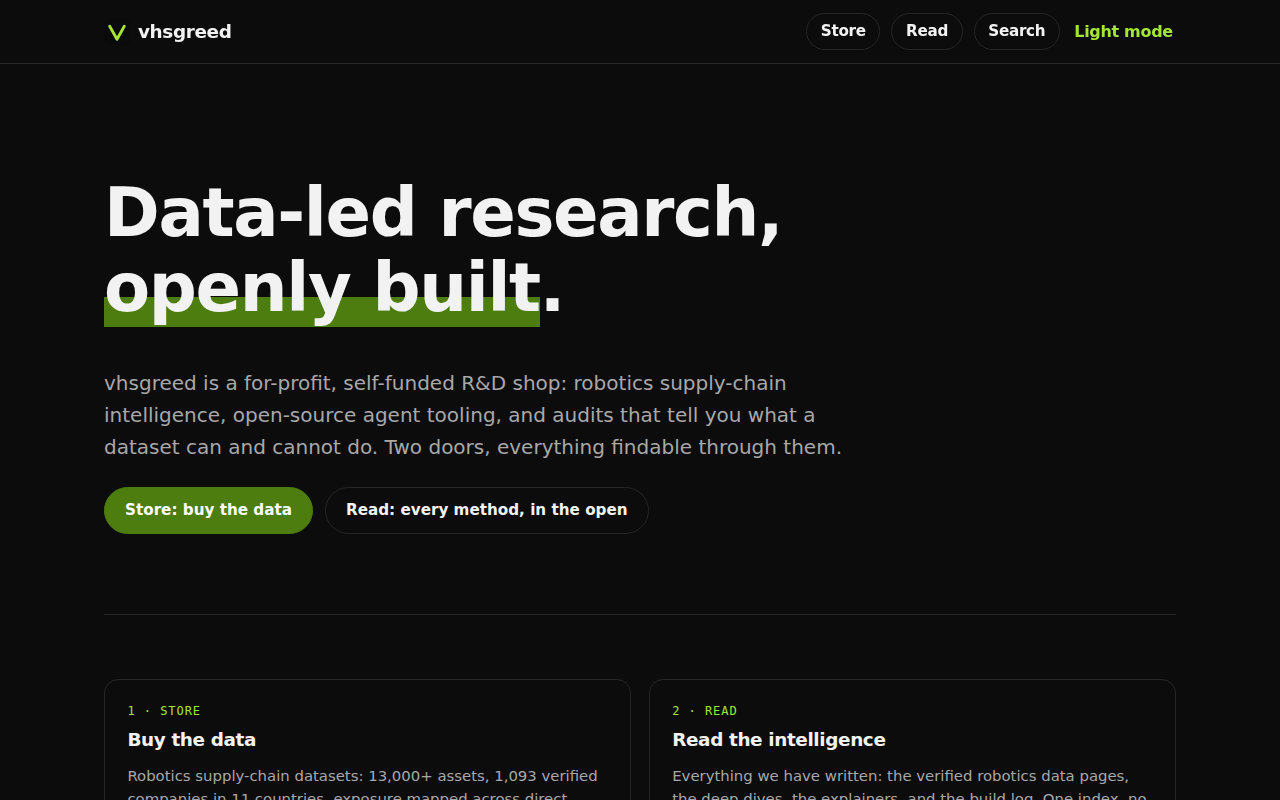
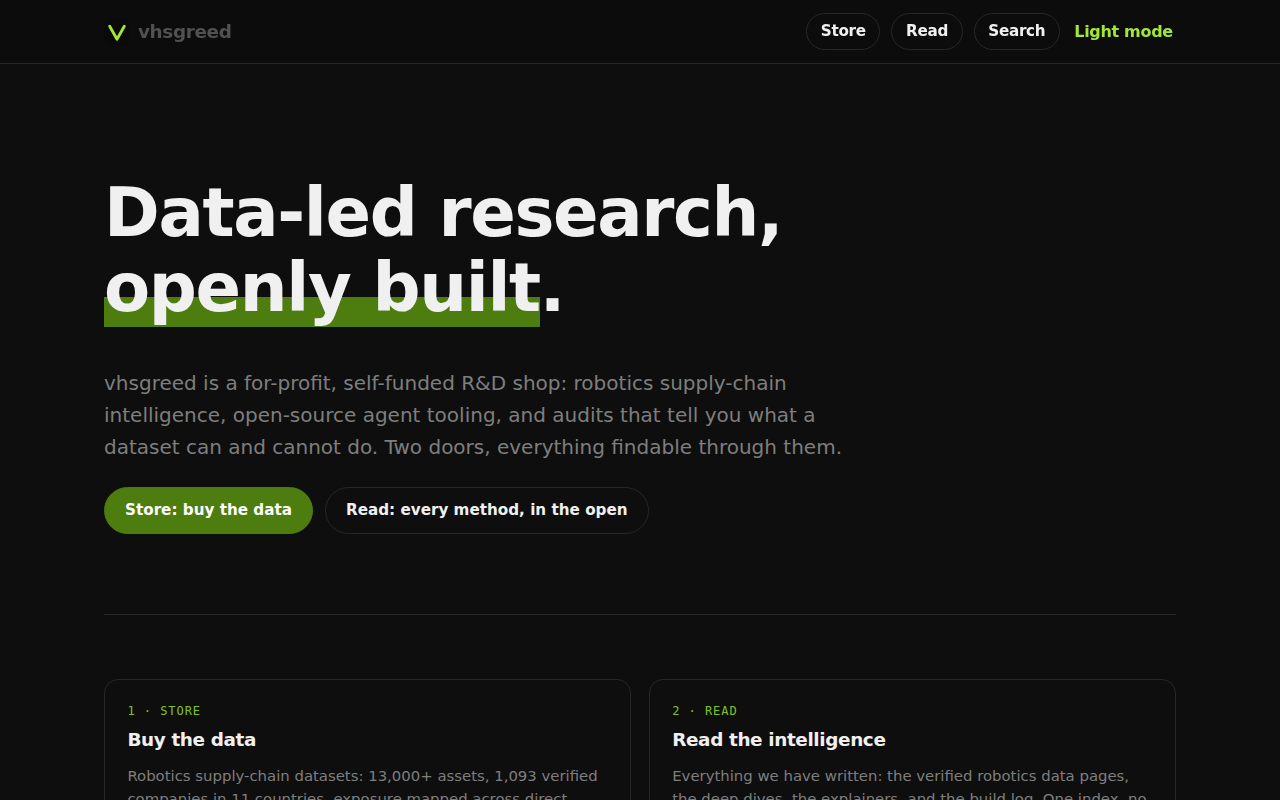
Skills-audit fixes: skip link, theme-color meta, Article+Product JSON-LD restored on merged blog route, /read/ heading hierarchy, scoped theme fade, dark img filter

diff --git a/src/styles/global.css b/src/styles/global.css
@@ -369,6 +369,7 @@ html, body { overflow-x: clip; }
 }
 @media (prefers-color-scheme: dark) {
   .prose pre, article pre { background: #161616; }
+  .prose img, article img { filter: brightness(0.9) contrast(1.05); }
   .prose p code, article li code { background: #161616; }
 }
 
@@ -393,10 +394,21 @@ html, body { overflow-x: clip; }
 article .prose pre, article pre { position: relative; }
 
 /* Theme switch: smooth color fade (backgrounds, text, borders only) */
-html.theme-fading, html.theme-fading *, html.theme-fading *::before, html.theme-fading *::after {
-  transition: background-color 0.3s ease, color 0.3s ease, border-color 0.3s ease, fill 0.3s ease !important;
+html.theme-fading body, html.theme-fading .card, html.theme-fading .card-row,
+html.theme-fading main, html.theme-fading header, html.theme-fading .footer,
+html.theme-fading section, html.theme-fading article {
+  transition: background-color 0.3s ease, color 0.3s ease, border-color 0.3s ease !important;
 }
 
 /* Copy button anchors to the wrapper, not the scrolling pre */
 .pre-wrap { position: relative; }
 .pre-wrap .copy-btn { position: absolute; top: 0.5rem; right: 0.5rem; }
+
+/* Skip link (a11y): hidden until focused */
+.skip-link {
+  position: absolute; left: 0.5rem; top: -3rem; z-index: 200;
+  background: var(--accent-strong); color: #0A0A0A;
+  padding: 0.5rem 0.9rem; border-radius: 0 0 8px 8px;
+  font-weight: 700; text-decoration: none;
+}
+.skip-link:focus { top: 0; }
